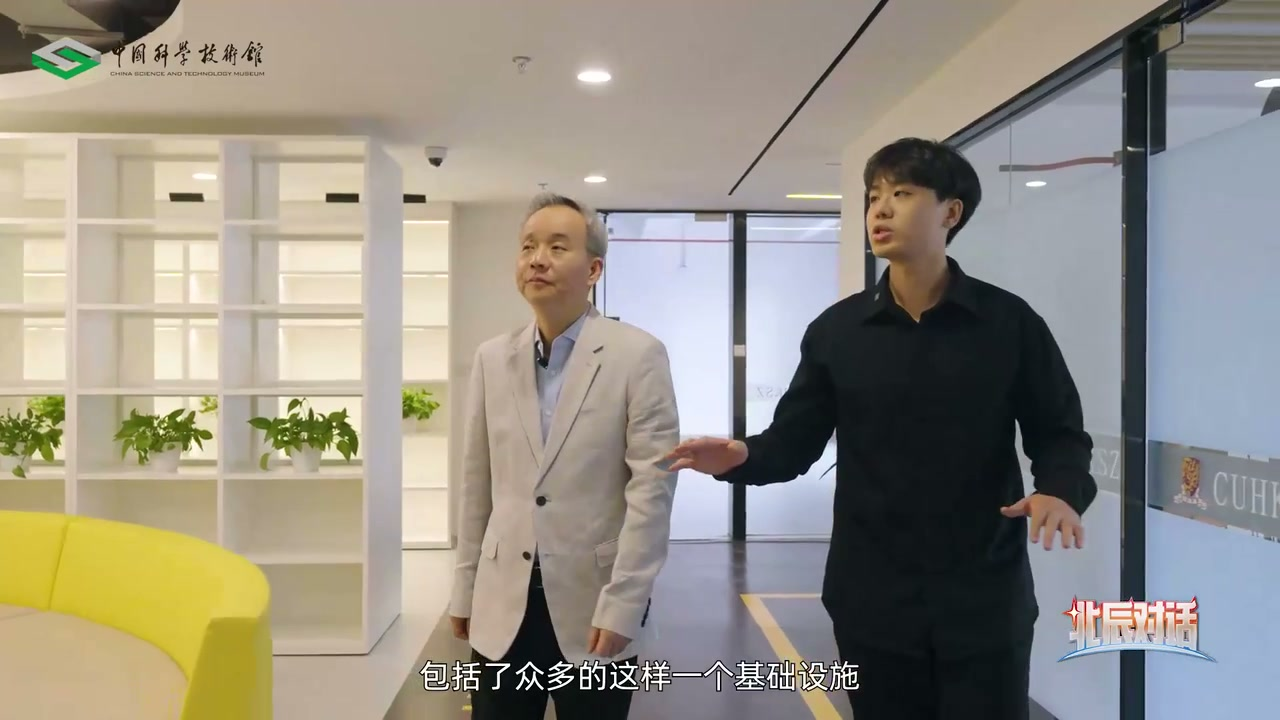
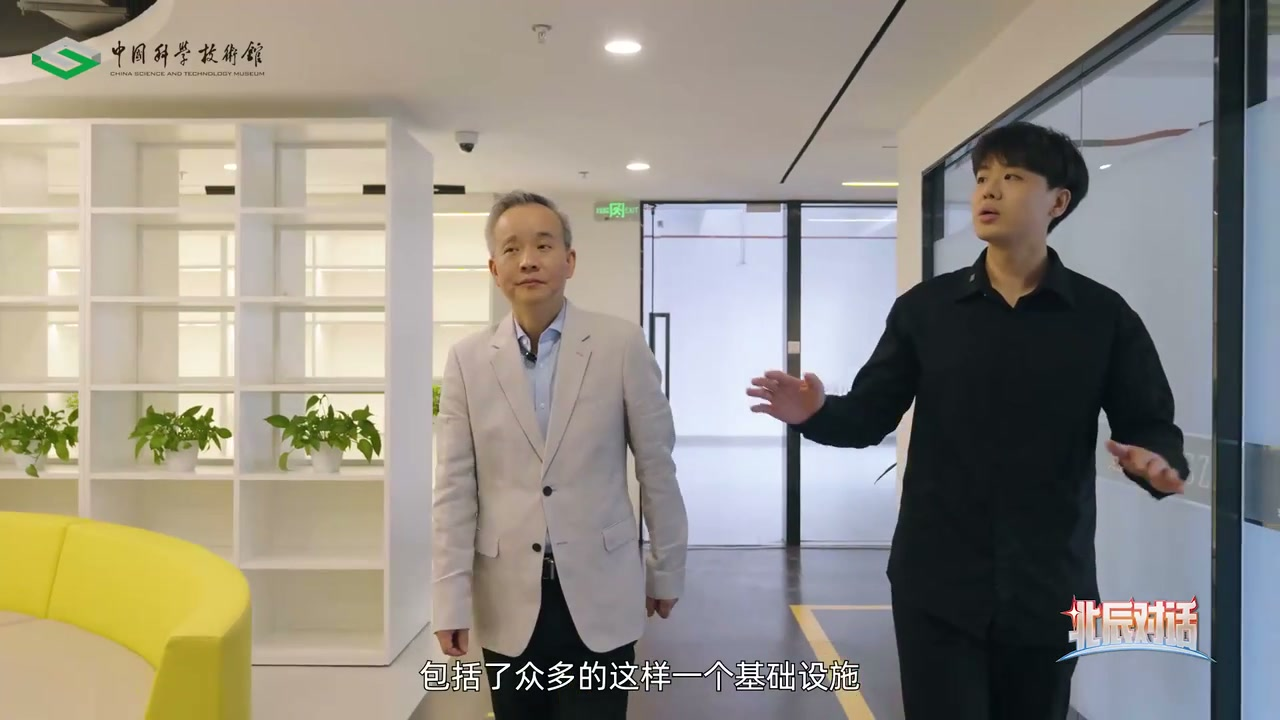
Remove the bilingual news section and use the selected Beichen cover

diff --git a/assets/scss/custom.scss b/assets/scss/custom.scss
@@ -55,7 +55,6 @@ button:focus-visible,
 .section-heading a[href]:hover {
   opacity: 1;
 }
-// "全部新闻»" / "All news»" 链接美化
 .section-heading .mt-1 a {
   font-size: 0.9rem;
   font-weight: 500;
@@ -393,18 +392,14 @@ button:focus-visible,
   }
 }
 
-// ----- News 新闻列表（首页 + 全部新闻页） -----
-#news .card-text,
-#news .article-style,
+// ----- Article typography -----
 .article-style {
   line-height: 1.8;
 }
-#news ul,
 .article-style ul {
   padding-left: 1.25rem;
   list-style: none;
 }
-#news li,
 .article-style li {
   margin-bottom: 0.85rem;
   position: relative;
@@ -413,17 +408,6 @@ button:focus-visible,
   &:hover {
     transform: translateX(2px);
   }
-}
-#news li::before {
-  content: "";
-  display: inline-block;
-  width: 6px;
-  height: 6px;
-  border-radius: 50%;
-  background: var(--primary, #6A1B9A);
-  position: absolute;
-  left: -1rem;
-  top: 0.55em;
 }
 
 // ----- Publications / Research 学术成果列表 -----
@@ -681,9 +665,6 @@ button:focus-visible,
   &:hover {
     background-color: rgba(255, 255, 255, 0.02);
   }
-}
-.dark #news li::before {
-  background: rgba(255, 255, 255, 0.5);
 }
 .dark .wechat-popup {
   background-color: #2d2d2d;

diff --git a/docs/events-sources.md b/docs/events-sources.md
@@ -10,7 +10,7 @@ Sources 1, 3, 5, 6, 7, 8, 9 and the newly supplied CCTA workshop article were re
 
 - Data ID `beichen-dialogues-incubator-2026`. The [Xinhuanet report and program](https://my-h5news.app.xinhuanet.com/h5/article.html?articleId=202611236c2ed9e12de5404b882be974977a9b26) were published on November 23. The report gives no filming date.
 - In the segment “协同之光”, the report names 夏钒曾 as the incubated project's lead and describes his tour of the incubator with Guo Zhe and his work helping enterprises build semantic asset engines.
-- The 1280 × 720 card image comes from 34:02 of the [original program](https://vodpub6.v.news.cn/yqfbzx-original/20261123/202611236c2ed9e12de5404b882be974977a9b26_64d9f0285a6b415aabb3a49a081e0024.mp4). The on-screen introduction appears at 33:50.
+- The selected cover (candidate 04, 1280 × 720) comes from 34:01.2 of the [original program](https://vodpub6.v.news.cn/yqfbzx-original/20261123/202611236c2ed9e12de5404b882be974977a9b26_64d9f0285a6b415aabb3a49a081e0024.mp4). The on-screen introduction appears at 33:50.
 
 ## CCTA GEO × AI cross-border trade workshop — 2026-11-09
 
